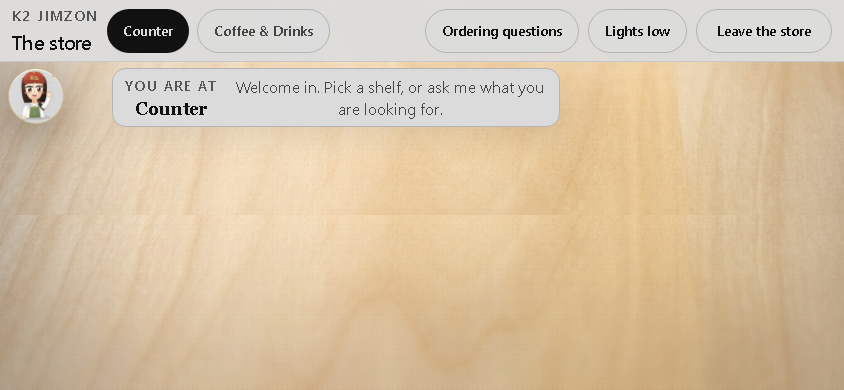
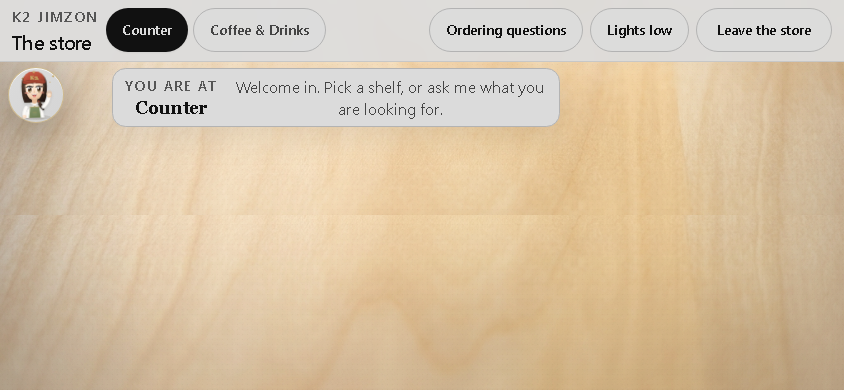
fix(store): resolve mobile header button overlap, text wrapping, and excessive height (IDEA-20260923-04)

diff --git a/src/views/InteractiveShop.jsx b/src/views/InteractiveShop.jsx
@@ -324,14 +324,14 @@ export default function InteractiveShop() {
   return (
     <main className="k2-store" aria-label="K2 virtual store">
       <header className="k2-store-bar">
-        <div>
-          <p className="text-[13px] font-semibold uppercase tracking-[0.14em] text-navy-faint">
+        <div className="shrink-0 min-w-0">
+          <p className="text-xs sm:text-[13px] font-semibold uppercase tracking-[0.14em] text-navy-faint whitespace-nowrap leading-tight">
             K2 Jimzon
           </p>
           <h1
             ref={storeHeadingRef}
             tabIndex={-1}
-            className="font-serif text-xl font-semibold text-[var(--k2-ink)] focus:outline-none"
+            className="font-serif text-base sm:text-xl font-semibold text-[var(--k2-ink)] focus:outline-none whitespace-nowrap leading-tight mt-0.5"
           >
             The store
           </h1>
@@ -343,7 +343,7 @@ export default function InteractiveShop() {
               type="button"
               onClick={() => goToShelf(index)}
               aria-current={index === activeIndex ? 'true' : undefined}
-              className={`min-h-[44px] whitespace-nowrap rounded-full px-4 text-sm font-semibold transition-colors focus-visible:outline-2 focus-visible:outline-offset-2 focus-visible:outline-crimson ${
+              className={`min-h-[44px] whitespace-nowrap rounded-full px-3 sm:px-4 text-xs sm:text-sm font-semibold transition-colors focus-visible:outline-2 focus-visible:outline-offset-2 focus-visible:outline-crimson cursor-pointer ${
                 index === activeIndex
                   ? 'bg-[var(--k2-ink)] text-[var(--k2-surface-solid)] shadow-xs'
                   : 'border border-[var(--k2-line)] bg-[var(--k2-surface-solid)]/80 text-[var(--k2-muted)] hover:border-[#C6A867]'
@@ -356,24 +356,30 @@ export default function InteractiveShop() {
         <button
           type="button"
           onClick={() => setSheet('faq')}
-          className="k2-store-faq min-h-[44px] shrink-0 rounded-full border border-[var(--k2-line)] bg-[var(--k2-surface-solid)]/80 px-4 text-sm font-semibold text-[var(--k2-ink)] transition-colors hover:border-[#C6A867] focus-visible:outline-2 focus-visible:outline-offset-2 focus-visible:outline-crimson"
+          aria-label="Ordering questions"
+          className="k2-store-faq min-h-[44px] shrink-0 rounded-full border border-[var(--k2-line)] bg-[var(--k2-surface-solid)]/80 px-2.5 sm:px-4 text-xs sm:text-sm font-semibold text-[var(--k2-ink)] transition-colors hover:border-[#C6A867] focus-visible:outline-2 focus-visible:outline-offset-2 focus-visible:outline-crimson cursor-pointer whitespace-nowrap"
         >
-          Ordering questions
+          <span className="hidden sm:inline">Ordering questions</span>
+          <span className="sm:hidden">FAQ</span>
         </button>
         <button
           type="button"
           onClick={toggleDarkMode}
           aria-pressed={isDark}
-          className="k2-store-theme min-h-[44px] shrink-0 rounded-full border border-[var(--k2-line)] bg-[var(--k2-surface-solid)]/80 px-4 text-sm font-semibold text-[var(--k2-ink)] transition-colors hover:border-[#C6A867] focus-visible:outline-2 focus-visible:outline-offset-2 focus-visible:outline-crimson"
+          aria-label={isDark ? 'Lights on' : 'Lights low'}
+          className="k2-store-theme min-h-[44px] shrink-0 rounded-full border border-[var(--k2-line)] bg-[var(--k2-surface-solid)]/80 px-2.5 sm:px-4 text-xs sm:text-sm font-semibold text-[var(--k2-ink)] transition-colors hover:border-[#C6A867] focus-visible:outline-2 focus-visible:outline-offset-2 focus-visible:outline-crimson cursor-pointer whitespace-nowrap"
         >
-          {isDark ? 'Lights on' : 'Lights low'}
+          <span className="hidden sm:inline">{isDark ? 'Lights on' : 'Lights low'}</span>
+          <span className="sm:hidden">{isDark ? 'Lights' : 'Dark'}</span>
         </button>
         <button
           type="button"
           onClick={leaveStore}
-          className="k2-store-leave min-h-[44px] shrink-0 rounded-full border border-[var(--k2-line)] bg-[var(--k2-surface-solid)]/80 px-5 text-sm font-semibold text-[var(--k2-ink)] transition-colors hover:border-[#C6A867] focus-visible:outline-2 focus-visible:outline-offset-2 focus-visible:outline-crimson"
+          aria-label="Leave the store"
+          className="k2-store-leave min-h-[44px] shrink-0 rounded-full border border-[var(--k2-line)] bg-[var(--k2-surface-solid)]/80 px-3 sm:px-5 text-xs sm:text-sm font-semibold text-[var(--k2-ink)] transition-colors hover:border-[#C6A867] focus-visible:outline-2 focus-visible:outline-offset-2 focus-visible:outline-crimson cursor-pointer whitespace-nowrap"
         >
-          Leave the store
+          <span className="hidden sm:inline">Leave the store</span>
+          <span className="sm:hidden">Exit</span>
         </button>
       </header>
 

diff --git a/src/interactive-store.css b/src/interactive-store.css
@@ -565,26 +565,35 @@
 @media (max-width: 900px) {
   .k2-store-bar {
     display: grid;
-    grid-template-columns: minmax(0, 1fr) auto auto auto;
-    gap: 0.55rem;
-    padding: 0.65rem 0.75rem;
+    grid-template-columns: 1fr auto auto auto;
+    align-items: center;
+    gap: 0.35rem 0.45rem;
+    padding: 0.45rem 0.75rem;
   }
 
   .k2-store-bar > div:first-child {
     grid-column: 1;
+    grid-row: 1;
     min-width: 0;
+    white-space: nowrap;
   }
 
   .k2-store-faq {
     grid-column: 2;
+    grid-row: 1;
+    white-space: nowrap;
   }
 
   .k2-store-theme {
     grid-column: 3;
+    grid-row: 1;
+    white-space: nowrap;
   }
 
   .k2-store-leave {
     grid-column: 4;
+    grid-row: 1;
+    white-space: nowrap;
   }
 
   .k2-store-shelfnav {
@@ -592,6 +601,8 @@
     grid-row: 2;
     width: 100%;
     min-width: 0;
+    gap: 0.35rem;
+    padding: 0.1rem 0;
   }
 
   .k2-store-body {

diff --git a/K2 Jimzon - Brain/FUTURE_IDEAS.md b/K2 Jimzon - Brain/FUTURE_IDEAS.md
@@ -1,5 +1,7 @@
 # K2 Jimzon Future Ideas Intake
 
+**IDEA-20260923-04 — 3D Store mobile header space optimization, button overlap resolution, and responsive touch targets. Accepted into MAP-027 / MAP-028 I-015. Code locally verified.** Owner reported top-left title in the 3D store was crushed and eating up space on mobile viewports (screenshot: top left eating up space). Audit: on viewports <= 900px (e.g. 390px/360px portrait), desktop-length button labels ("Ordering questions", "Lights low", "Leave the store") consumed ~360px, squeezing column 1 down to <10px. This caused "K2 Jimzon / The store" to wrap into 4 vertical lines ("K2", "JIMZON", "The", "store") and "Ordering questions" to overlap directly over "The store", bloating header height to ~140px+. Surgical fix: (1) Added `shrink-0 min-w-0 whitespace-nowrap` to title container so "K2 Jimzon" and "The store" remain single-line and never wrap or overlap; (2) Added responsive mobile button text labels (`FAQ`, `Lights`/`Dark`, `Exit`) via `sm:hidden` while preserving full accessible names (`aria-label`) and desktop text (`hidden sm:inline`), maintaining 100% test contract compatibility (`Ordering questions`, `Leave the store`, `The store`); (3) Maintained minimum 44px touch target height (`min-h-[44px]`) on both header actions and shelf navigation tabs; (4) Reduced top-bar padding on mobile to `0.45rem 0.75rem`, bringing total 2-row mobile header height down to ~100px and recovering significant vertical screen real estate for the 3D room. Verification: `tests/map027-interactive-shop.spec.js`, `tests/map027-store-polish.spec.js`, `tests/store-orientation-ui.spec.js` (12/12 passed), `tests/mobile-store-moderation-pwa-contract.spec.js` (4/4 passed), `npm run verify:development` (0 leaks, 0 boundary gaps), and Storefront production bundle build (JS 150.15 kB / 150.50 kB gzip, CSS 29.50 kB / 30.00 kB gzip).
+
 **IDEA-20260923-03 — 3D Store asset and detail parity with catalog, elimination of nested popup container boxes, and bidirectional return-to-store navigation. Accepted into MAP-027 / MAP-028 I-015.** Owner requested: (1) eliminate nested container box in the store popup that is eating up screen space; (2) provide clear navigation logic for buyers/users to return to the 3D store when adding products or browsing other pages; (3) ensure product details in the 3D store match the catalog presentation (`inventory > the catalog > the 3d store`), including `ProductVisual` asset rendering, category, stock pill, peso pricing, and description. Scope: `src/components/shop/StoreSeoPanel.jsx`, `src/components/shop/ShelfProductPanel.jsx`, `src/components/shop/StoreSidePanel.jsx`, `src/views/MasterProduct.jsx`, `src/views/Checkout.jsx`, and `src/components/CartDrawer.jsx`. Bundle limits: Storefront JS <= 150.50 kB gzip, CSS <= 30.00 kB gzip.
 
 **IDEA-20260923-02 — 3D Store Ergonomics: Bottom popups for Shopkeeper and Product Details, removal of floating zoom buttons, and elimination of bottom haze gradient. Accepted into MAP-027 / MAP-028 I-015.** Owner requested: (1) reposition K2 Shopkeeper from top-left to a toggleable bottom pop-up; (2) display product details in a toggleable bottom pop-up card when a product is selected instead of a permanent column/sidebar; (3) remove floating zoom buttons (+, restore, -) from the 3D scene (camera gestures remain primary); (4) eliminate the washed-out white gradient background on `.k2-store-rail` so the natural wood floor is visible; (5) eliminate redundant product names and shelf listings from cabinet overlays, relying exclusively on the bottom rail for current cabinet items. Contrast between `#111111` and `#DBDBDB`/`#D5D5D5` reaches >12:1 (exceeding WCAG AAA). Scope: `src/views/InteractiveShop.jsx`, `src/components/shop/StoreKeeper.jsx`, `src/components/shop/ShelfProductPanel.jsx`, `src/interactive-store.css`, and associated test suites. Bundle limits: Storefront JS <= 150.50 kB gzip, CSS <= 30.00 kB gzip.
